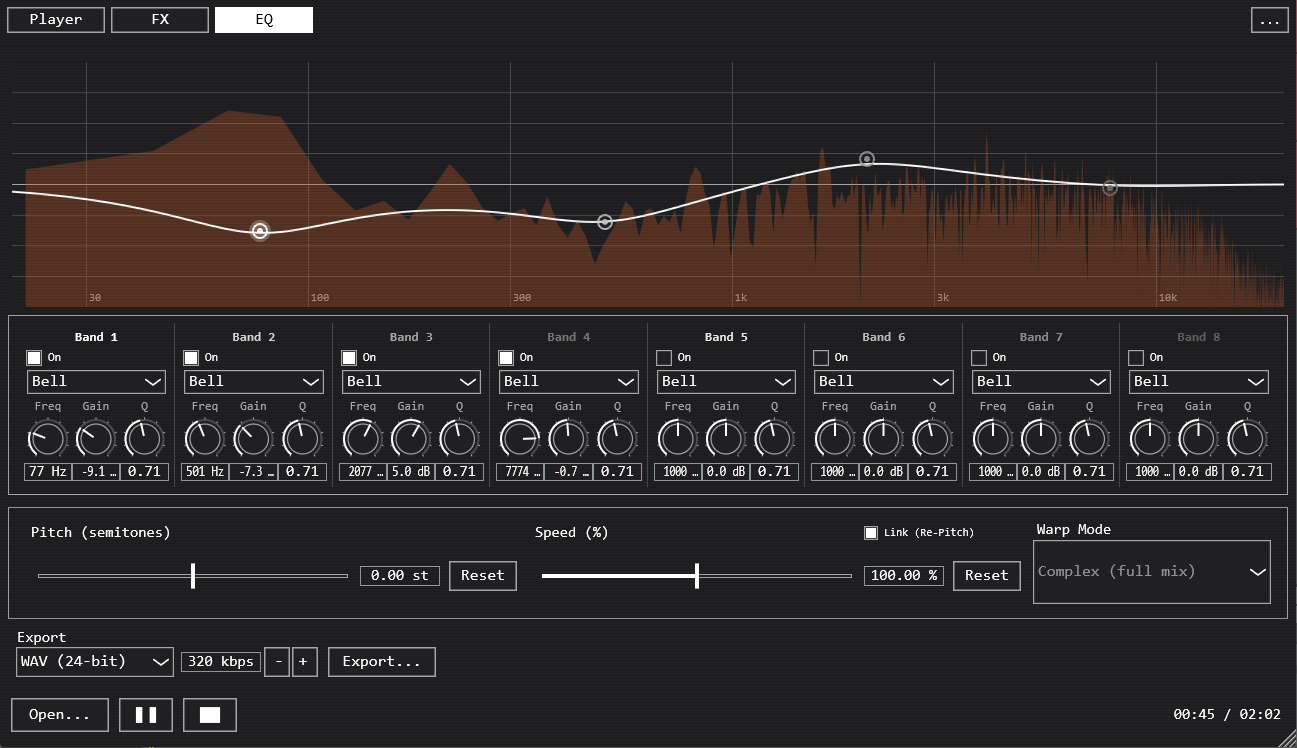
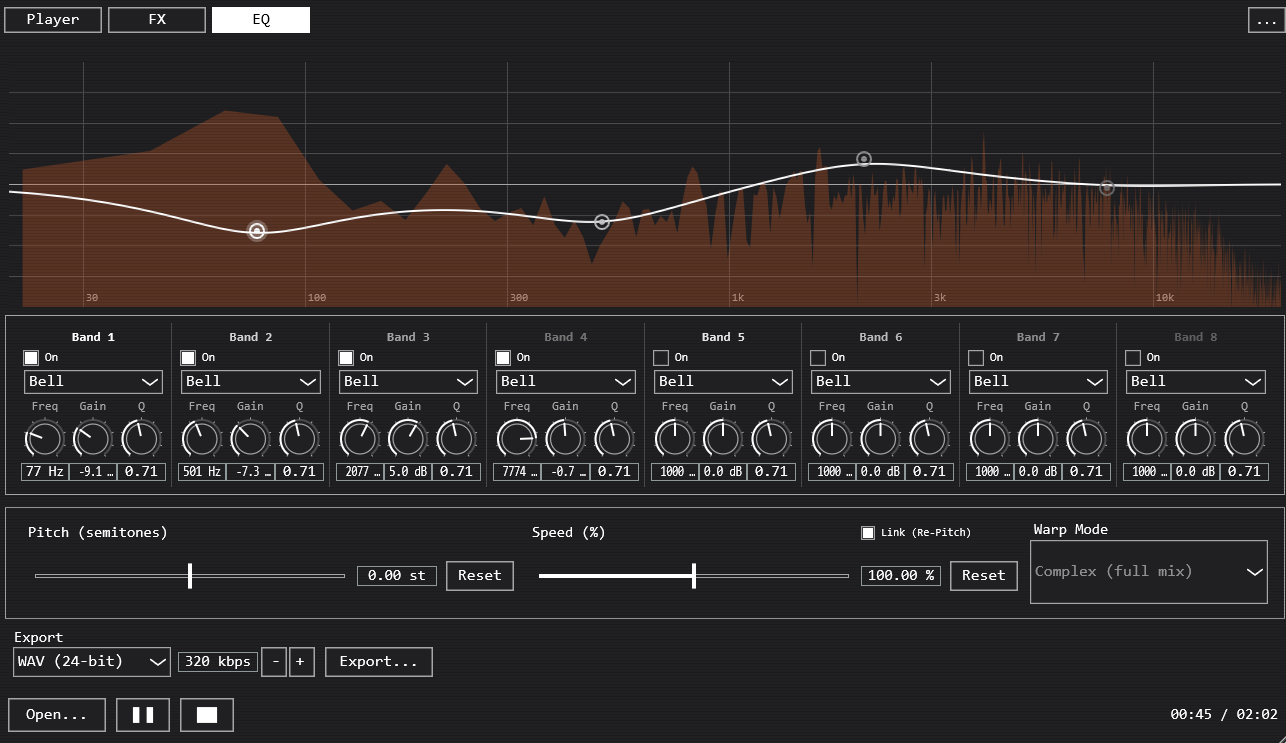
README: move FX/EQ screenshots into Features, tighten crops
FX and EQ tab screenshots now sit in the Features section right
next to their own descriptions instead of down in "How it works".
Also trimmed a few stray pixels of background bleed (title bar/
window-edge chrome) off all three screenshots.

diff --git a/README.md b/README.md
@@ -14,16 +14,22 @@ built-in FX chain and 8-band EQ before exporting or recording the result in your
 - **Pitch/Speed control**, either **Link (Re-Pitch)** (speed and pitch move together, like a
   turntable pitch fader) or independent via a selectable **Warp Mode** -- Beats (percussive),
   Tones (monophonic), Texture (pads/ambient), or Complex/Complex Pro (full mix).
-- **FX chain**: Reverb, Granular Delay, Frequency Shifter/Ring Modulator, Smudge (a spectral
-  freeze/smear effect), and a Drive/Compression bus stage (OTT-style aggressive compressor
-  blended in via a dry/wet knob, plus tanh saturation).
-- **8-band parametric EQ** (high-pass, low-pass, shelves, bell, notch, band-pass) with a live
-  spectrum analyzer drawn behind the curve, auto-normalized to the signal's own peak.
 - **Runtime GUI themes** -- Default, Matrix (phosphor green terminal), and Amber Terminal,
   switchable from the "..." menu without restarting.
 - **Export** (Standalone only -- inside a DAW, just record/resample SPANDEX's output on another
   track): WAV/AIFF/FLAC/MP3 at full offline quality, matching whatever pitch/speed/warp/FX
   settings are currently dialed in.
+
+![SPANDEX FX tab](docs/screenshot-fx.png)
+
+**FX chain**: Reverb, Granular Delay, Frequency Shifter/Ring Modulator, Smudge (a spectral
+freeze/smear effect), and a Drive/Compression bus stage (OTT-style aggressive compressor
+blended in via a dry/wet knob, plus tanh saturation).
+
+![SPANDEX EQ tab](docs/screenshot-eq.png)
+
+**8-band parametric EQ** (high-pass, low-pass, shelves, bell, notch, band-pass) with a live
+spectrum analyzer drawn behind the curve, auto-normalized to the signal's own peak.
 
 ## Installing
 
